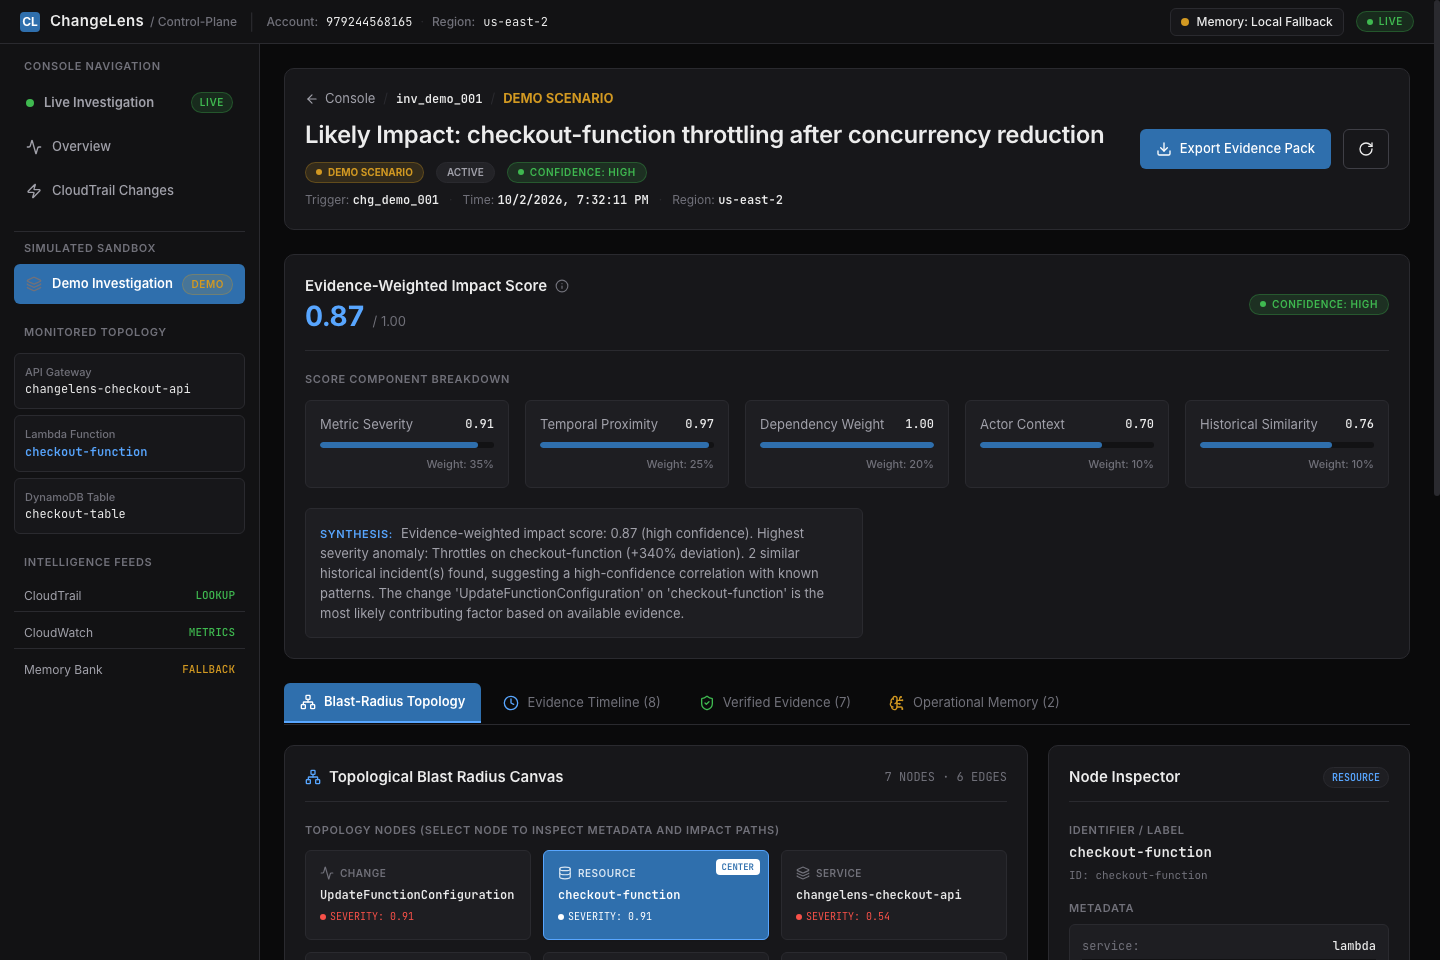
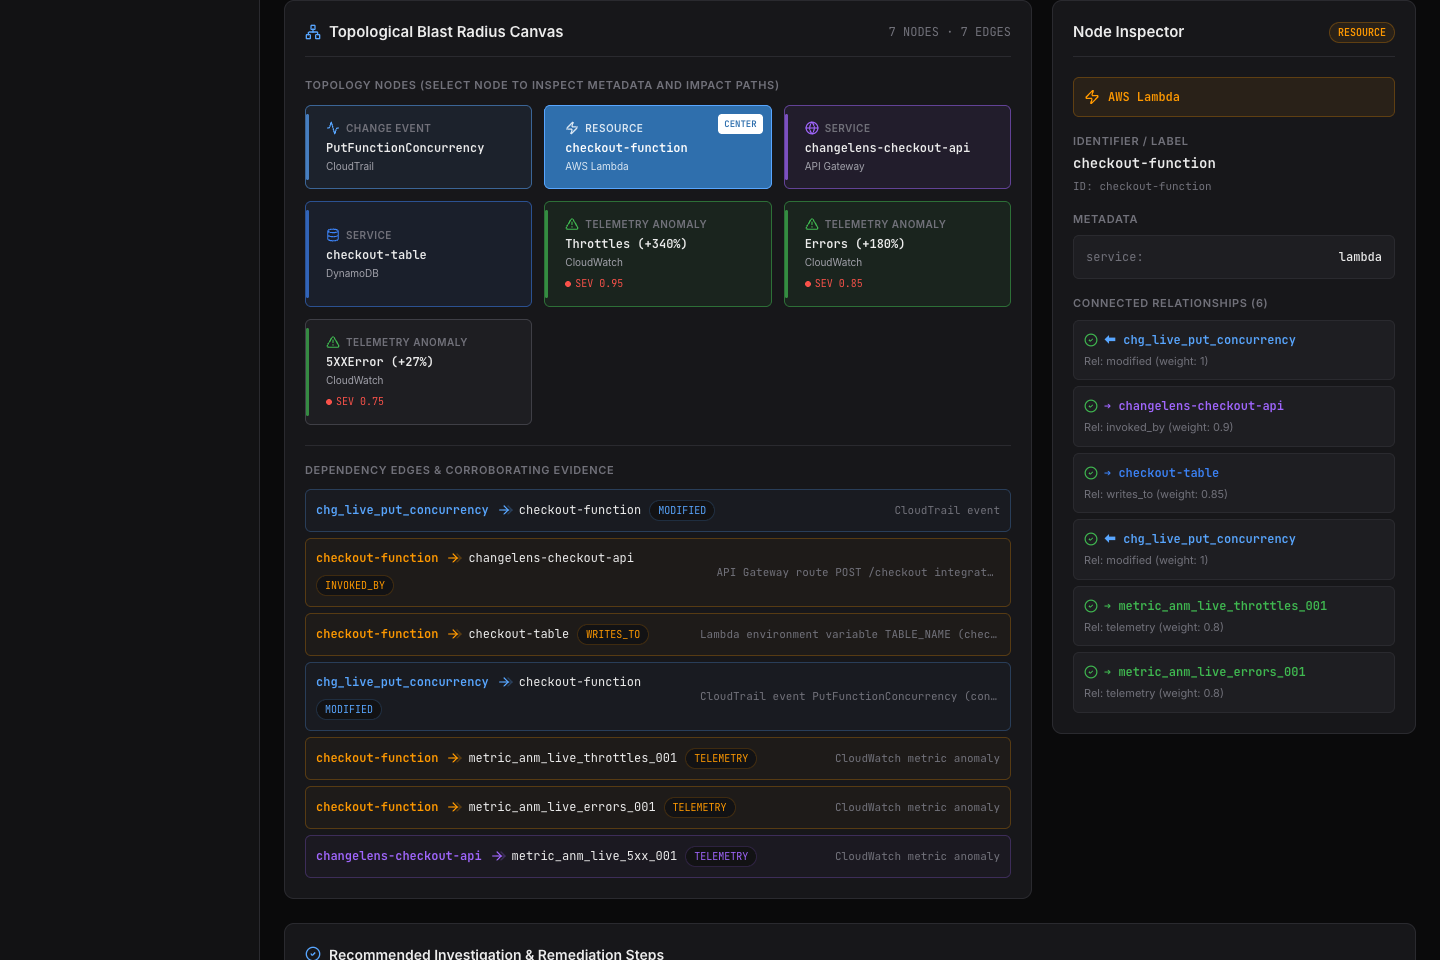
docs: update README screenshots with verified live CloudFront UI captures

diff --git a/README.md b/README.md
@@ -195,22 +195,22 @@ The ChangeLens user interface is built on **SPEC v2: Pure Black (`#0A0A0B`) + Si
 
 ---
 
-### 2. Live Investigation & Blast-Radius Graph
-*The primary investigation view (`/investigations/inv_live_001`) showing the topological canvas, node inspector, and edge corroboration with live CloudTrail changes.*
+### 2. Live Incident Correlation & Impact Scoring
+*The primary investigation view (`/investigations/inv_live_001`) showing verified incident state, 5-component impact score breakdown, and live AWS CloudTrail + CloudWatch telemetry.*
 
 ![Live Investigation](docs/screenshots/live_investigation.png)
 
 ---
 
-### 3. Causal Hypothesis & Explainable Impact Scoring
-*Detailed breakdown of the 5-component impact formula, high-confidence synthesis, and multi-node blast radius.*
+### 3. Topological Blast Radius & Causal Path Highlights
+*Dynamic blast-radius topology with AWS service identity accents (Lambda, API Gateway, DynamoDB), causal hover path illumination, and corroborated dependency edges.*
 
 ![Impact Scoring & Blast Radius](docs/screenshots/blast_radius_investigation.png)
 
 ---
 
 ### 4. CloudTrail Infrastructure Changes Stream
-*Normalized stream of CloudTrail events with actor classification (Human vs. Automation vs. Agent) and raw event payload inspection.*
+*Normalized stream of CloudTrail events with actor classification, LIVE vs SEEDED provenance, and raw event payload inspection.*
 
 ![CloudTrail Changes Stream](docs/screenshots/cloudtrail_changes.png)
 
